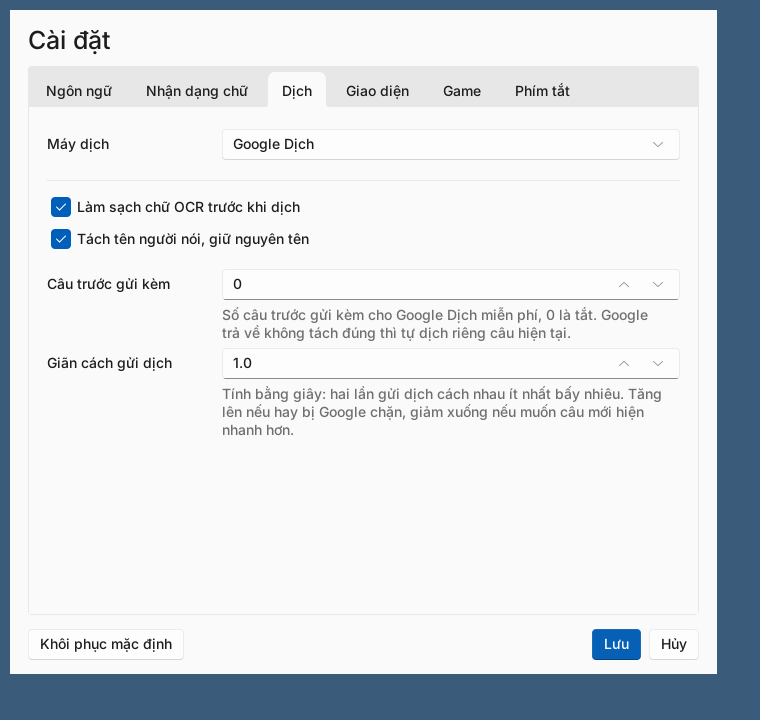
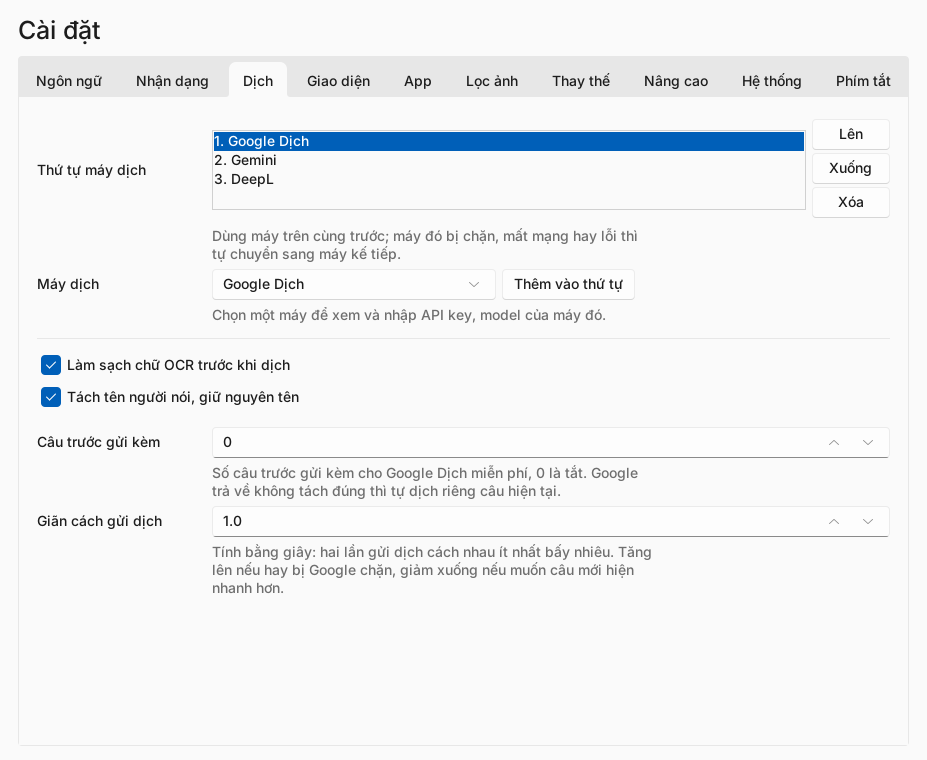
README tiếng Anh, bản tiếng Việt chuyển sang README.vi.md
- Viết lại README bằng tiếng Anh, nhóm tính năng theo chủ đề, thêm hướng dẫn build
- Giữ bản tiếng Việt ở README.vi.md, có link qua lại giữa hai bản
- Cập nhật ảnh cửa sổ cài đặt

Changed region(s): [[0.0, 0.0, 1.0, 1.0], [0.1513, 0.0917, 0.8776, 0.2444], [0.7868, 0.0917, 0.8776, 0.1222]]

diff --git a/README.md b/README.md
@@ -1,94 +1,109 @@
 # Screen Translator
 
-[![Tải bản mới nhất](https://img.shields.io/github/v/release/DaoLongVu2107/screen_translate?label=t%E1%BA%A3i%20v%E1%BB%81&color=0a7cff)](https://github.com/DaoLongVu2107/screen_translate/releases/latest)
+[![Download latest](https://img.shields.io/github/v/release/DaoLongVu2107/screen_translate?label=download&color=0a7cff)](https://github.com/DaoLongVu2107/screen_translate/releases/latest)
 [![Windows 10/11](https://img.shields.io/badge/Windows-10%20%7C%2011-0078D6?logo=windows)](https://github.com/DaoLongVu2107/screen_translate/releases/latest)
 [![License: MIT](https://img.shields.io/badge/license-MIT-green)](LICENSE)
 
+**English** · [Tiếng Việt](README.vi.md)
+
 **Real-time screen translator for Windows.** Press a hotkey, drag over any part of the screen (game dialogue, video subtitles, chat windows, documents) and the text is read with OCR and translated live, every time it changes. A free, lightweight alternative to Translumo with Google Translate, DeepL and AI translation (Claude, ChatGPT, Gemini, Grok).
 
-**App dịch màn hình theo thời gian thực cho Windows.** Bấm phím tắt, kéo chuột chọn một vùng trên màn hình (khung thoại trong game, phụ đề video, cửa sổ chat, tài liệu...), app tự đọc chữ và hiện bản dịch tiếng Việt mỗi khi chữ thay đổi.
+![The translation box shows right under the game dialogue](docs/images/demo.png)
 
-![Khung dịch hiện ngay dưới khung thoại game](docs/images/demo.png)
+## Download
 
-## Tải về
+Go to **[Releases](https://github.com/DaoLongVu2107/screen_translate/releases/latest)**, download `ScreenTranslator.exe` and run it. Nothing else to install.
 
-Vào trang **[Releases](https://github.com/DaoLongVu2107/screen_translate/releases/latest)**, tải `ScreenTranslator.exe` rồi chạy. Không cần cài đặt gì thêm.
+> Windows may show a SmartScreen warning because the file is not code-signed yet: click **More info → Run anyway**.
 
-> Windows có thể hiện cảnh báo SmartScreen vì file chưa có chữ ký số: bấm **More info → Run anyway**.
+Requirements: Windows 10 or 11.
 
-Yêu cầu: Windows 10 hoặc 11.
+> The app's interface is currently in Vietnamese. It can translate from English, Japanese, Chinese, Korean, Russian, French, German, Spanish and more into Vietnamese, English or any other listed language.
 
-## Tính năng
+## Features
 
-- Chọn vùng bằng phím tắt, dịch liên tục và chỉ dịch khi chữ thay đổi
-- Dịch nhanh một lần kiểu Google Lens: khoanh vùng là có bản dịch, kèm nút Copy
-- Nhận dạng chữ bằng Windows OCR có sẵn, hoặc Tesseract
-- Máy dịch: Google Dịch miễn phí, Google Cloud Translation, DeepL, hoặc AI (Claude, ChatGPT, Gemini, Grok) bằng API key của bạn
-- Xếp thứ tự nhiều máy dịch: máy đầu bị chặn hay mất mạng thì tự chuyển sang máy kế tiếp
-- Sửa chữ OCR đọc nhầm rồi dịch lại; bảng thay thế lỗi OCR tự sửa những chữ hay đọc nhầm
-- Tự kiểm tra cài đặt sai (thiếu API key, thiếu gói ngôn ngữ OCR, phím tắt trùng...) và chỉ rõ chỗ sai
-- Tự làm sạch lỗi OCR và tách tên người nói, chỉ dịch lời thoại
-- Khung dịch kéo đi tự do, đổi kích thước, có lịch sử các câu trước
-- Chế độ chuột bấm xuyên qua: khung dịch đè lên game mà vẫn click vào game bình thường
-- Hiện viền vùng đang dịch và kéo cạnh, góc để chỉnh trực tiếp, không cần chọn lại từ đầu
-- Rê chuột vào chữ gốc để tra nghĩa từng từ theo loại từ, giữ `Shift` và kéo để tra cả cụm từ
-- Chế độ phụ đề: chỉ hiện câu mới nhất, chữ to, căn giữa phía dưới màn hình
-- Tự ẩn khung dịch khi vùng không còn chữ
-- Lọc ảnh trước khi đọc chữ: giữ chữ theo màu, tăng tương phản, đen trắng..., có khung xem trước
-- Nhớ vùng dịch theo từng app, kéo cửa sổ đi đâu vùng dịch theo đó, đổi kích thước cửa sổ thì vùng dịch co giãn theo
-- Chỉ dịch khi app đang ở phía trước, thu nhỏ hoặc chuyển cửa sổ thì tự dừng
-- Giao diện Sáng / Tối, tùy chỉnh phông chữ, màu, độ trong suốt
-- Khởi động cùng Windows, proxy, tự báo khi có bản mới
+**Translate**
+- Live translation: pick an area once, it re-translates every time the text changes
+- One-shot translation (Google Lens style): select an area, get the translation with a Copy button
+- Translation engines: free Google Translate, Google Cloud Translation, DeepL, or AI (Claude, ChatGPT, Gemini, Grok) with your own API key
+- Engine fallback chain: if the first engine is rate-limited or offline, the next one takes over automatically
+- AI translation keeps the conversation context, consistent pronouns and character names, and follows your own glossary notes
 
-## Phím tắt
+**Read text accurately**
+- OCR with the built-in Windows OCR, or Tesseract
+- Image filters before OCR (keep only the text color, contrast, invert, sharpen, black and white) with a live preview
+- Automatic OCR cleanup and speaker name detection: only the dialogue is translated, names are kept
+- Fix misread text and translate again; a substitution table automatically fixes words OCR keeps getting wrong
 
-| Phím | Chức năng |
+**Translation box**
+- Drag it anywhere, resize it, scroll back through the history of previous lines
+- Subtitle mode: only the latest line, large text, centered at the bottom of the screen
+- Click-through mode: the box stays on top of the game while your clicks go through to the game
+- Hover over a word in the original text to see its meanings, hold `Shift` and drag to look up a whole phrase
+- Hides itself when the area has no text, light and dark themes, custom font, colors and transparency
+
+**Works with your apps and games**
+- Remembers the area per app: open the game and it starts translating, move the window and the area follows, resize it and the area scales
+- Show and adjust the area border directly without selecting again
+- Only translates while the app is in front; pauses when minimized or when you switch windows
+- Checks your settings and points out problems (missing API keys, missing OCR language packs, duplicate hotkeys...)
+- Start with Windows, proxy support, update notifications
+
+## Hotkeys
+
+| Key | Action |
 |---|---|
-| `Alt + Q` | Chọn vùng cần dịch (bắt đầu dịch tự động) |
-| `Alt + W` | Tạm dừng / tiếp tục dịch |
-| `Alt + E` | Dịch lại ngay |
-| `Alt + D` | Dịch nhanh một lần: khoanh vùng, xem bản dịch rồi thôi |
-| `Alt + H` | Ẩn / hiện khung dịch |
-| `Alt + C` | Bật / tắt chuột bấm xuyên qua khung dịch |
-| `Alt + R` | Hiện viền vùng đang dịch để kéo chỉnh; bấm lại hoặc `Enter` để lưu, `Esc` để hủy |
-| `Alt + V` | Đổi giữa chế độ phụ đề và chế độ lịch sử |
-| `Alt + S` | Mở cài đặt |
-| `Ctrl + Alt + X` | Thoát |
+| `Alt + Q` | Select an area to translate (starts live translation) |
+| `Alt + W` | Pause / resume |
+| `Alt + E` | Translate again now |
+| `Alt + D` | One-shot translation: select an area, see the translation, done |
+| `Alt + H` | Show / hide the translation box |
+| `Alt + C` | Toggle click-through for the translation box |
+| `Alt + R` | Show the area border to adjust it; press again or `Enter` to save, `Esc` to cancel |
+| `Alt + V` | Switch between subtitle mode and history mode |
+| `Alt + S` | Open settings |
+| `Ctrl + Alt + X` | Quit |
 
-Mọi phím tắt đều đổi được trong phần Cài đặt.
+All hotkeys can be changed in Settings.
 
-## Cách dùng
+## How to use
 
-1. Chạy `ScreenTranslator.exe`. App nằm ở khay hệ thống (góc phải thanh taskbar).
-2. Bấm `Alt + Q`, kéo chuột quanh vùng có chữ cần dịch. Bấm `Esc` hoặc chuột phải để hủy.
-3. Bản dịch hiện trong một khung nhỏ ngay dưới vùng đã chọn và tự cập nhật khi chữ thay đổi.
-   - Kéo bất kỳ chỗ nào trên khung để di chuyển, kéo góc dưới phải để đổi kích thước.
-   - Câu mới hiện ở dưới cùng, câu cũ đẩy lên trên thành lịch sử; lăn chuột để xem lại.
-   - Giữ `Ctrl` và lăn chuột trên khung để chỉnh độ trong suốt.
-   - Chuột phải vào khung để copy bản dịch, xem chữ gốc, chọn vùng mới...
-4. Bấm `Alt + S` (hoặc chuột phải icon ở khay → **Mở cài đặt**) để chỉnh ngôn ngữ, máy dịch, giao diện, phím tắt và cách nhớ vùng theo app.
+1. Run `ScreenTranslator.exe`. The app lives in the system tray (bottom right of the taskbar).
+2. Press `Alt + Q` and drag around the text you want to translate. Press `Esc` or right-click to cancel.
+3. The translation appears in a small box right under the area and updates whenever the text changes.
+   - Drag anywhere on the box to move it, drag the bottom-right corner to resize it.
+   - New lines appear at the bottom and older ones move up; scroll to read them again.
+   - Hold `Ctrl` and scroll on the box to change its transparency.
+   - Right-click the box to copy the translation, show the original text, fix misread text, pick a new area...
+4. Press `Alt + S` (or right-click the tray icon → **Mở cài đặt**) to change languages, engines, appearance, hotkeys and per-app behavior.
 
-![Cửa sổ cài đặt](docs/images/settings.png)
+![Settings window](docs/images/settings.png)
 
-## Dịch bằng AI
+## Translating with AI
 
-AI dịch tự nhiên hơn hẳn, hiểu mạch hội thoại, xưng hô đúng và giữ tên riêng nhất quán.
+AI translations read much more naturally, follow the flow of the conversation and keep names consistent.
 
-1. Mở Cài đặt → tab **Dịch** → chọn một máy dịch AI.
-2. Bấm **Lấy key** để mở trang tạo API key của nhà cung cấp, dán key vào ô **API key**.
-3. Chọn model (bấm **Tải danh sách** để xem các model mới nhất), rồi bấm **Thử dịch** để kiểm tra.
-4. Có thể ghi chú cho AI, ví dụ: *“Doctor dịch là Tiến sĩ; giữ nguyên tên nhân vật”*.
+1. Open Settings → **Dịch** (Translation) tab and pick an AI engine.
+2. Click **Lấy key** (Get key) to open the provider's API key page, then paste the key into **API key**.
+3. Choose a model (click **Tải danh sách** to load the latest models), then click **Thử dịch** (Test) to check it works.
+4. Optionally write notes for the AI, for example: *"Translate Doctor as Tiến sĩ; keep character names unchanged"*.
+5. Add it to **Thứ tự máy dịch** (engine order) together with other engines as backups.
 
-Phí AI tính theo lượng chữ và trả trực tiếp cho nhà cung cấp. App chỉ gọi AI khi chữ trên màn hình thay đổi.
+AI usage is billed by the provider based on the amount of text. The app only calls the AI when the text on screen changes.
 
-## Mẹo
+## Tips
 
-- **Dịch tiếng Nhật, Trung, Hàn...**: Windows cần có gói ngôn ngữ đó. Vào *Settings → Time & language → Language & region → Add a language* và thêm ngôn ngữ cần đọc.
-- **Hay bị Google chặn**: tăng **Giãn cách gửi dịch** trong Cài đặt → Dịch, hoặc chuyển sang Google Cloud, DeepL hay AI.
-- **Phím tắt không ăn khi đang dùng một app khác** (thường là game): chuột phải `ScreenTranslator.exe` → *Run as administrator*.
-- **Game toàn màn hình**: chuyển game sang chế độ *Borderless* hoặc *Windowed* để khung dịch nổi lên trên được.
-- **Nên chọn vùng vừa khít phần chữ**: dịch sẽ nhanh và chính xác hơn.
+- **Reading Japanese, Chinese, Korean...**: Windows needs the OCR language pack. Go to *Settings → Time & language → Language & region → Add a language* and add the language you want to read.
+- **Busy or animated backgrounds**: open the **Lọc ảnh** (Image filter) tab, take a preview and click on the text to keep only that color.
+- **Rate-limited by Google**: add another engine to the engine order, or increase the send interval in the **Dịch** tab.
+- **Hotkeys don't work inside a game**: right-click `ScreenTranslator.exe` → *Run as administrator*.
+- **Fullscreen games**: switch the game to *Borderless* or *Windowed* mode so the translation box can stay on top.
+- **Select only the text area**: translation is faster and more accurate.
 
-## Giấy phép
+## Build from source
+
+Install [Python 3.10+](https://www.python.org/downloads/), then run `build.bat`. The executable is created at `dist\ScreenTranslator.exe`. Use `run.bat` to run the app without building.
+
+## License
 
 [MIT](LICENSE)

diff --git a/README.vi.md b/README.vi.md
@@ -1,0 +1,94 @@
+# Screen Translator
+
+[![Tải bản mới nhất](https://img.shields.io/github/v/release/DaoLongVu2107/screen_translate?label=t%E1%BA%A3i%20v%E1%BB%81&color=0a7cff)](https://github.com/DaoLongVu2107/screen_translate/releases/latest)
+[![Windows 10/11](https://img.shields.io/badge/Windows-10%20%7C%2011-0078D6?logo=windows)](https://github.com/DaoLongVu2107/screen_translate/releases/latest)
+[![License: MIT](https://img.shields.io/badge/license-MIT-green)](LICENSE)
+
+[English](README.md) · **Tiếng Việt**
+
+**App dịch màn hình theo thời gian thực cho Windows.** Bấm phím tắt, kéo chuột chọn một vùng trên màn hình (khung thoại trong game, phụ đề video, cửa sổ chat, tài liệu...), app tự đọc chữ và hiện bản dịch tiếng Việt mỗi khi chữ thay đổi.
+
+![Khung dịch hiện ngay dưới khung thoại game](docs/images/demo.png)
+
+## Tải về
+
+Vào trang **[Releases](https://github.com/DaoLongVu2107/screen_translate/releases/latest)**, tải `ScreenTranslator.exe` rồi chạy. Không cần cài đặt gì thêm.
+
+> Windows có thể hiện cảnh báo SmartScreen vì file chưa có chữ ký số: bấm **More info → Run anyway**.
+
+Yêu cầu: Windows 10 hoặc 11.
+
+## Tính năng
+
+- Chọn vùng bằng phím tắt, dịch liên tục và chỉ dịch khi chữ thay đổi
+- Dịch nhanh một lần kiểu Google Lens: khoanh vùng là có bản dịch, kèm nút Copy
+- Nhận dạng chữ bằng Windows OCR có sẵn, hoặc Tesseract
+- Máy dịch: Google Dịch miễn phí, Google Cloud Translation, DeepL, hoặc AI (Claude, ChatGPT, Gemini, Grok) bằng API key của bạn
+- Xếp thứ tự nhiều máy dịch: máy đầu bị chặn hay mất mạng thì tự chuyển sang máy kế tiếp
+- Sửa chữ OCR đọc nhầm rồi dịch lại; bảng thay thế lỗi OCR tự sửa những chữ hay đọc nhầm
+- Tự kiểm tra cài đặt sai (thiếu API key, thiếu gói ngôn ngữ OCR, phím tắt trùng...) và chỉ rõ chỗ sai
+- Tự làm sạch lỗi OCR và tách tên người nói, chỉ dịch lời thoại
+- Khung dịch kéo đi tự do, đổi kích thước, có lịch sử các câu trước
+- Chế độ chuột bấm xuyên qua: khung dịch đè lên game mà vẫn click vào game bình thường
+- Hiện viền vùng đang dịch và kéo cạnh, góc để chỉnh trực tiếp, không cần chọn lại từ đầu
+- Rê chuột vào chữ gốc để tra nghĩa từng từ theo loại từ, giữ `Shift` và kéo để tra cả cụm từ
+- Chế độ phụ đề: chỉ hiện câu mới nhất, chữ to, căn giữa phía dưới màn hình
+- Tự ẩn khung dịch khi vùng không còn chữ
+- Lọc ảnh trước khi đọc chữ: giữ chữ theo màu, tăng tương phản, đen trắng..., có khung xem trước
+- Nhớ vùng dịch theo từng app, kéo cửa sổ đi đâu vùng dịch theo đó, đổi kích thước cửa sổ thì vùng dịch co giãn theo
+- Chỉ dịch khi app đang ở phía trước, thu nhỏ hoặc chuyển cửa sổ thì tự dừng
+- Giao diện Sáng / Tối, tùy chỉnh phông chữ, màu, độ trong suốt
+- Khởi động cùng Windows, proxy, tự báo khi có bản mới
+
+## Phím tắt
+
+| Phím | Chức năng |
+|---|---|
+| `Alt + Q` | Chọn vùng cần dịch (bắt đầu dịch tự động) |
+| `Alt + W` | Tạm dừng / tiếp tục dịch |
+| `Alt + E` | Dịch lại ngay |
+| `Alt + D` | Dịch nhanh một lần: khoanh vùng, xem bản dịch rồi thôi |
+| `Alt + H` | Ẩn / hiện khung dịch |
+| `Alt + C` | Bật / tắt chuột bấm xuyên qua khung dịch |
+| `Alt + R` | Hiện viền vùng đang dịch để kéo chỉnh; bấm lại hoặc `Enter` để lưu, `Esc` để hủy |
+| `Alt + V` | Đổi giữa chế độ phụ đề và chế độ lịch sử |
+| `Alt + S` | Mở cài đặt |
+| `Ctrl + Alt + X` | Thoát |
+
+Mọi phím tắt đều đổi được trong phần Cài đặt.
+
+## Cách dùng
+
+1. Chạy `ScreenTranslator.exe`. App nằm ở khay hệ thống (góc phải thanh taskbar).
+2. Bấm `Alt + Q`, kéo chuột quanh vùng có chữ cần dịch. Bấm `Esc` hoặc chuột phải để hủy.
+3. Bản dịch hiện trong một khung nhỏ ngay dưới vùng đã chọn và tự cập nhật khi chữ thay đổi.
+   - Kéo bất kỳ chỗ nào trên khung để di chuyển, kéo góc dưới phải để đổi kích thước.
+   - Câu mới hiện ở dưới cùng, câu cũ đẩy lên trên thành lịch sử; lăn chuột để xem lại.
+   - Giữ `Ctrl` và lăn chuột trên khung để chỉnh độ trong suốt.
+   - Chuột phải vào khung để copy bản dịch, xem chữ gốc, chọn vùng mới...
+4. Bấm `Alt + S` (hoặc chuột phải icon ở khay → **Mở cài đặt**) để chỉnh ngôn ngữ, máy dịch, giao diện, phím tắt và cách nhớ vùng theo app.
+
+![Cửa sổ cài đặt](docs/images/settings.png)
+
+## Dịch bằng AI
+
+AI dịch tự nhiên hơn hẳn, hiểu mạch hội thoại, xưng hô đúng và giữ tên riêng nhất quán.
+
+1. Mở Cài đặt → tab **Dịch** → chọn một máy dịch AI.
+2. Bấm **Lấy key** để mở trang tạo API key của nhà cung cấp, dán key vào ô **API key**.
+3. Chọn model (bấm **Tải danh sách** để xem các model mới nhất), rồi bấm **Thử dịch** để kiểm tra.
+4. Có thể ghi chú cho AI, ví dụ: *“Doctor dịch là Tiến sĩ; giữ nguyên tên nhân vật”*.
+
+Phí AI tính theo lượng chữ và trả trực tiếp cho nhà cung cấp. App chỉ gọi AI khi chữ trên màn hình thay đổi.
+
+## Mẹo
+
+- **Dịch tiếng Nhật, Trung, Hàn...**: Windows cần có gói ngôn ngữ đó. Vào *Settings → Time & language → Language & region → Add a language* và thêm ngôn ngữ cần đọc.
+- **Hay bị Google chặn**: tăng **Giãn cách gửi dịch** trong Cài đặt → Dịch, hoặc chuyển sang Google Cloud, DeepL hay AI.
+- **Phím tắt không ăn khi đang dùng một app khác** (thường là game): chuột phải `ScreenTranslator.exe` → *Run as administrator*.
+- **Game toàn màn hình**: chuyển game sang chế độ *Borderless* hoặc *Windowed* để khung dịch nổi lên trên được.
+- **Nên chọn vùng vừa khít phần chữ**: dịch sẽ nhanh và chính xác hơn.
+
+## Giấy phép
+
+[MIT](LICENSE)
